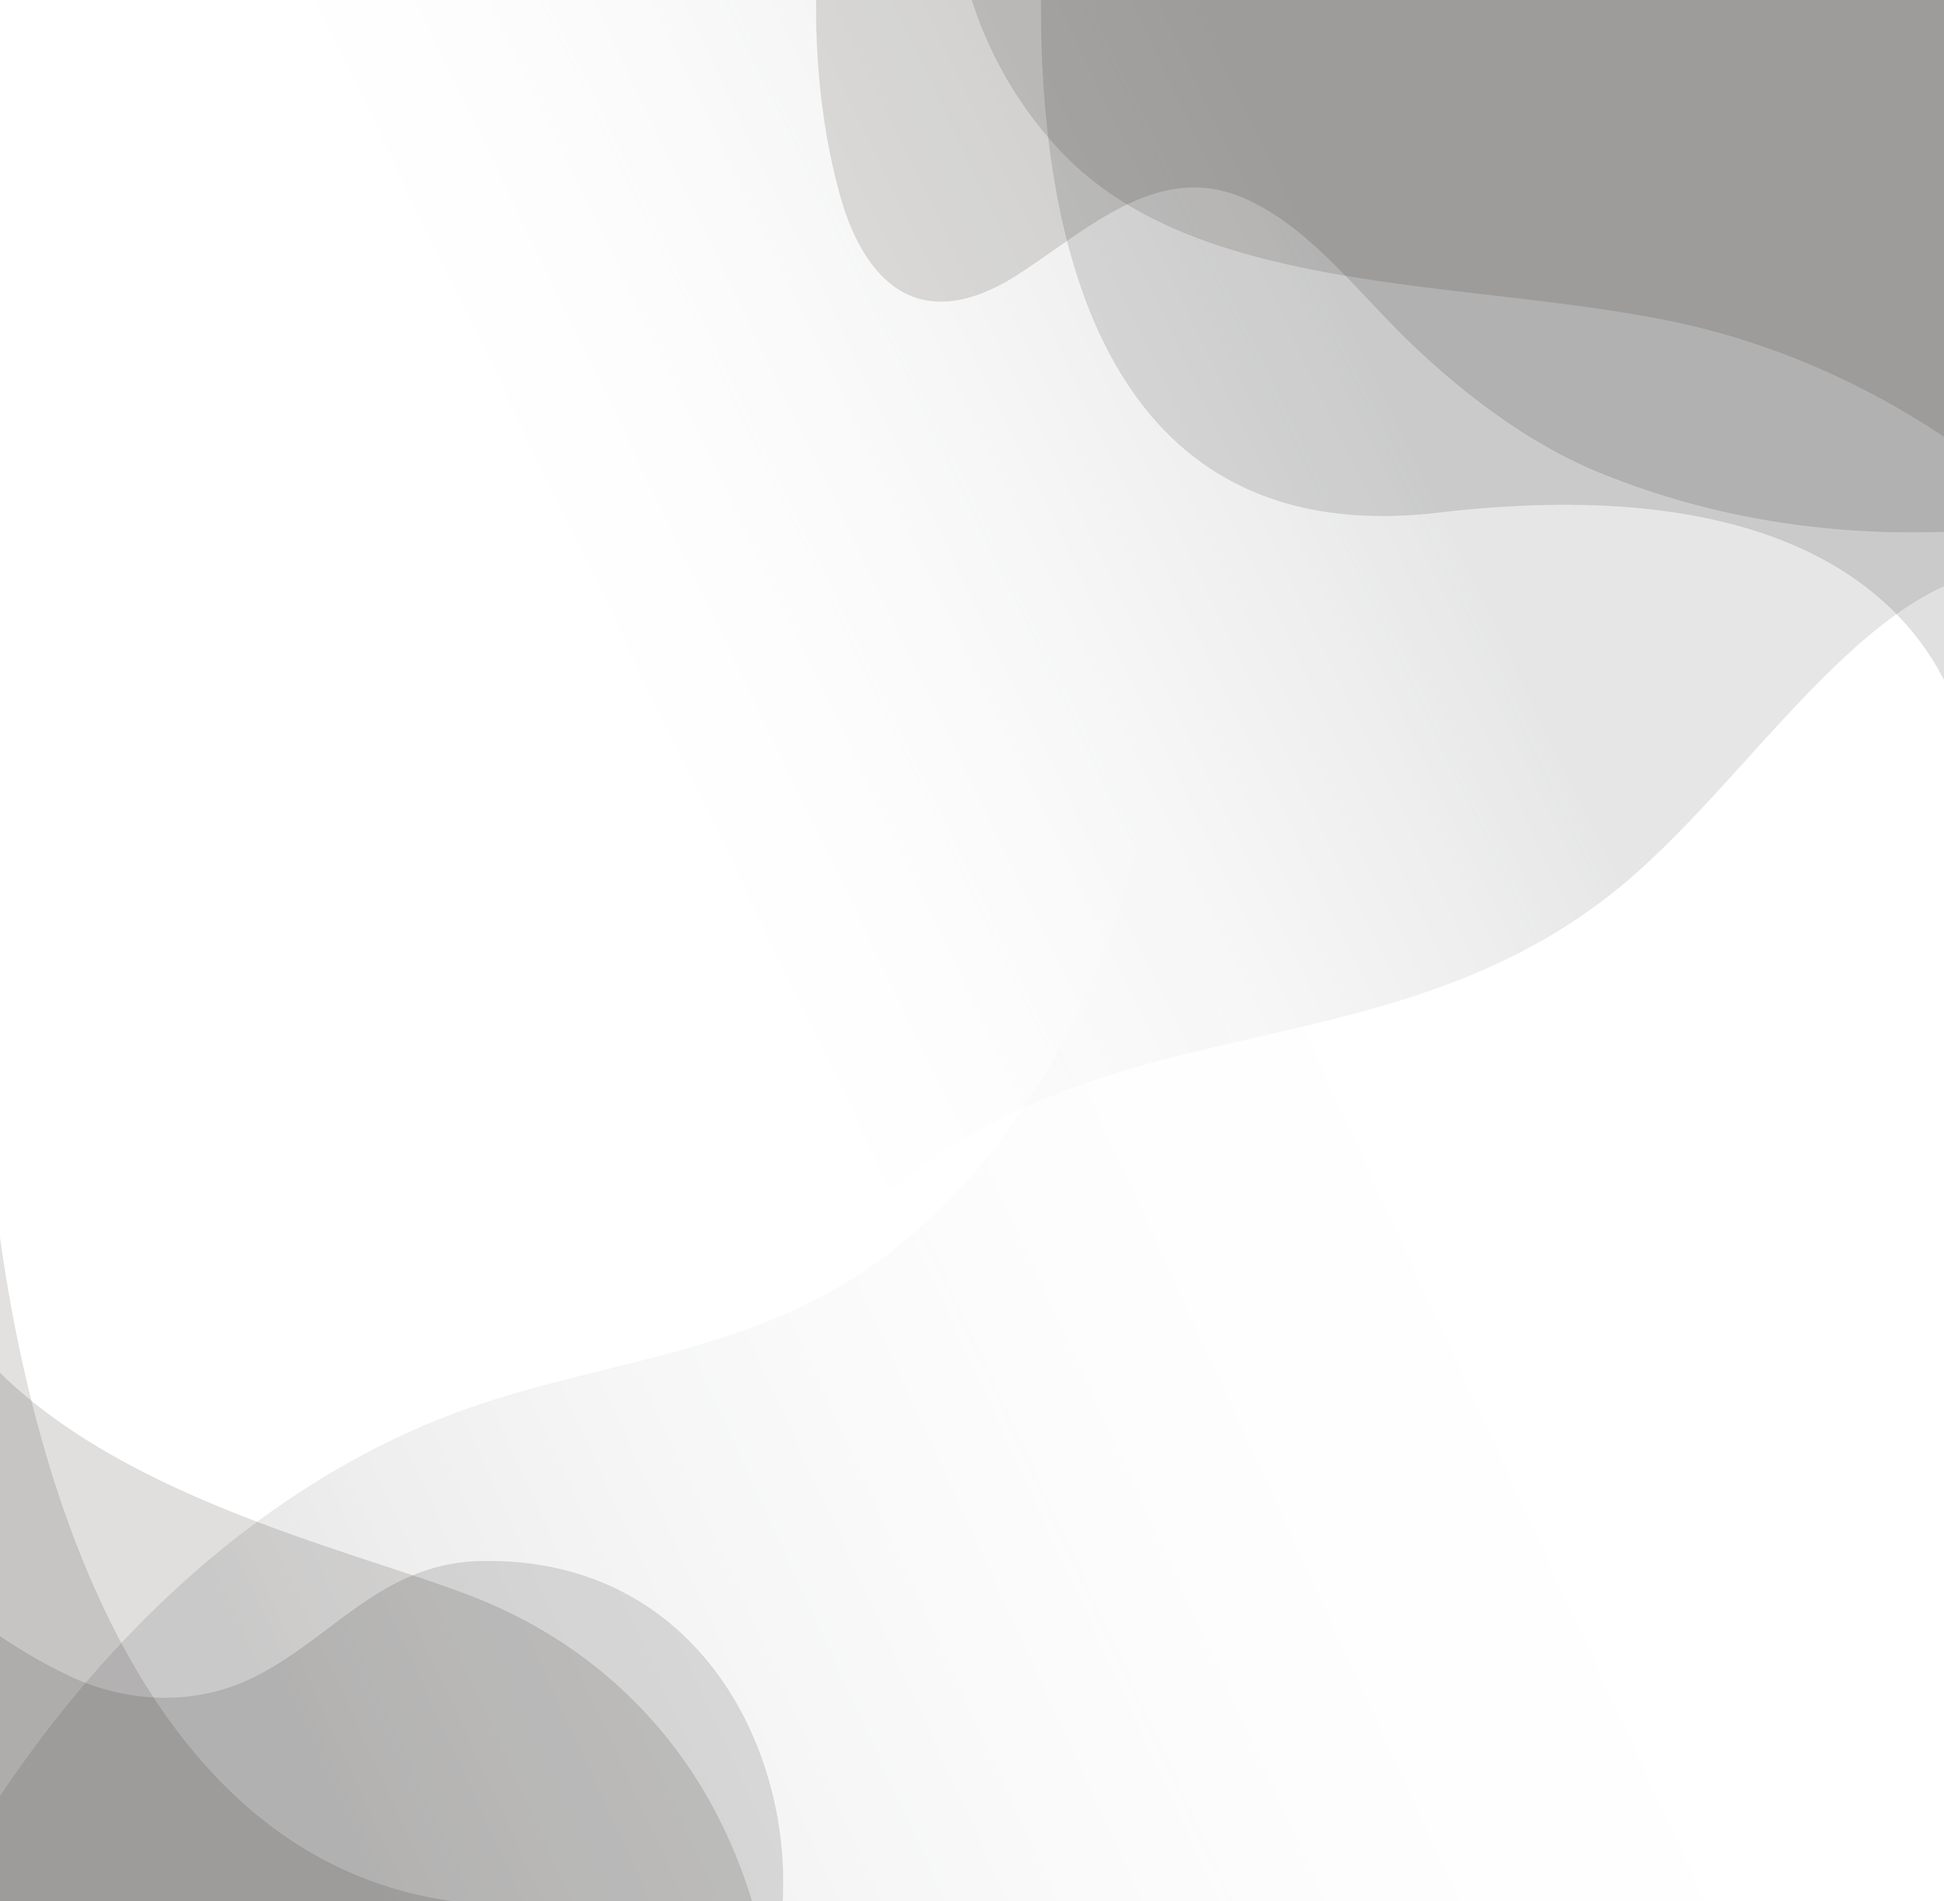
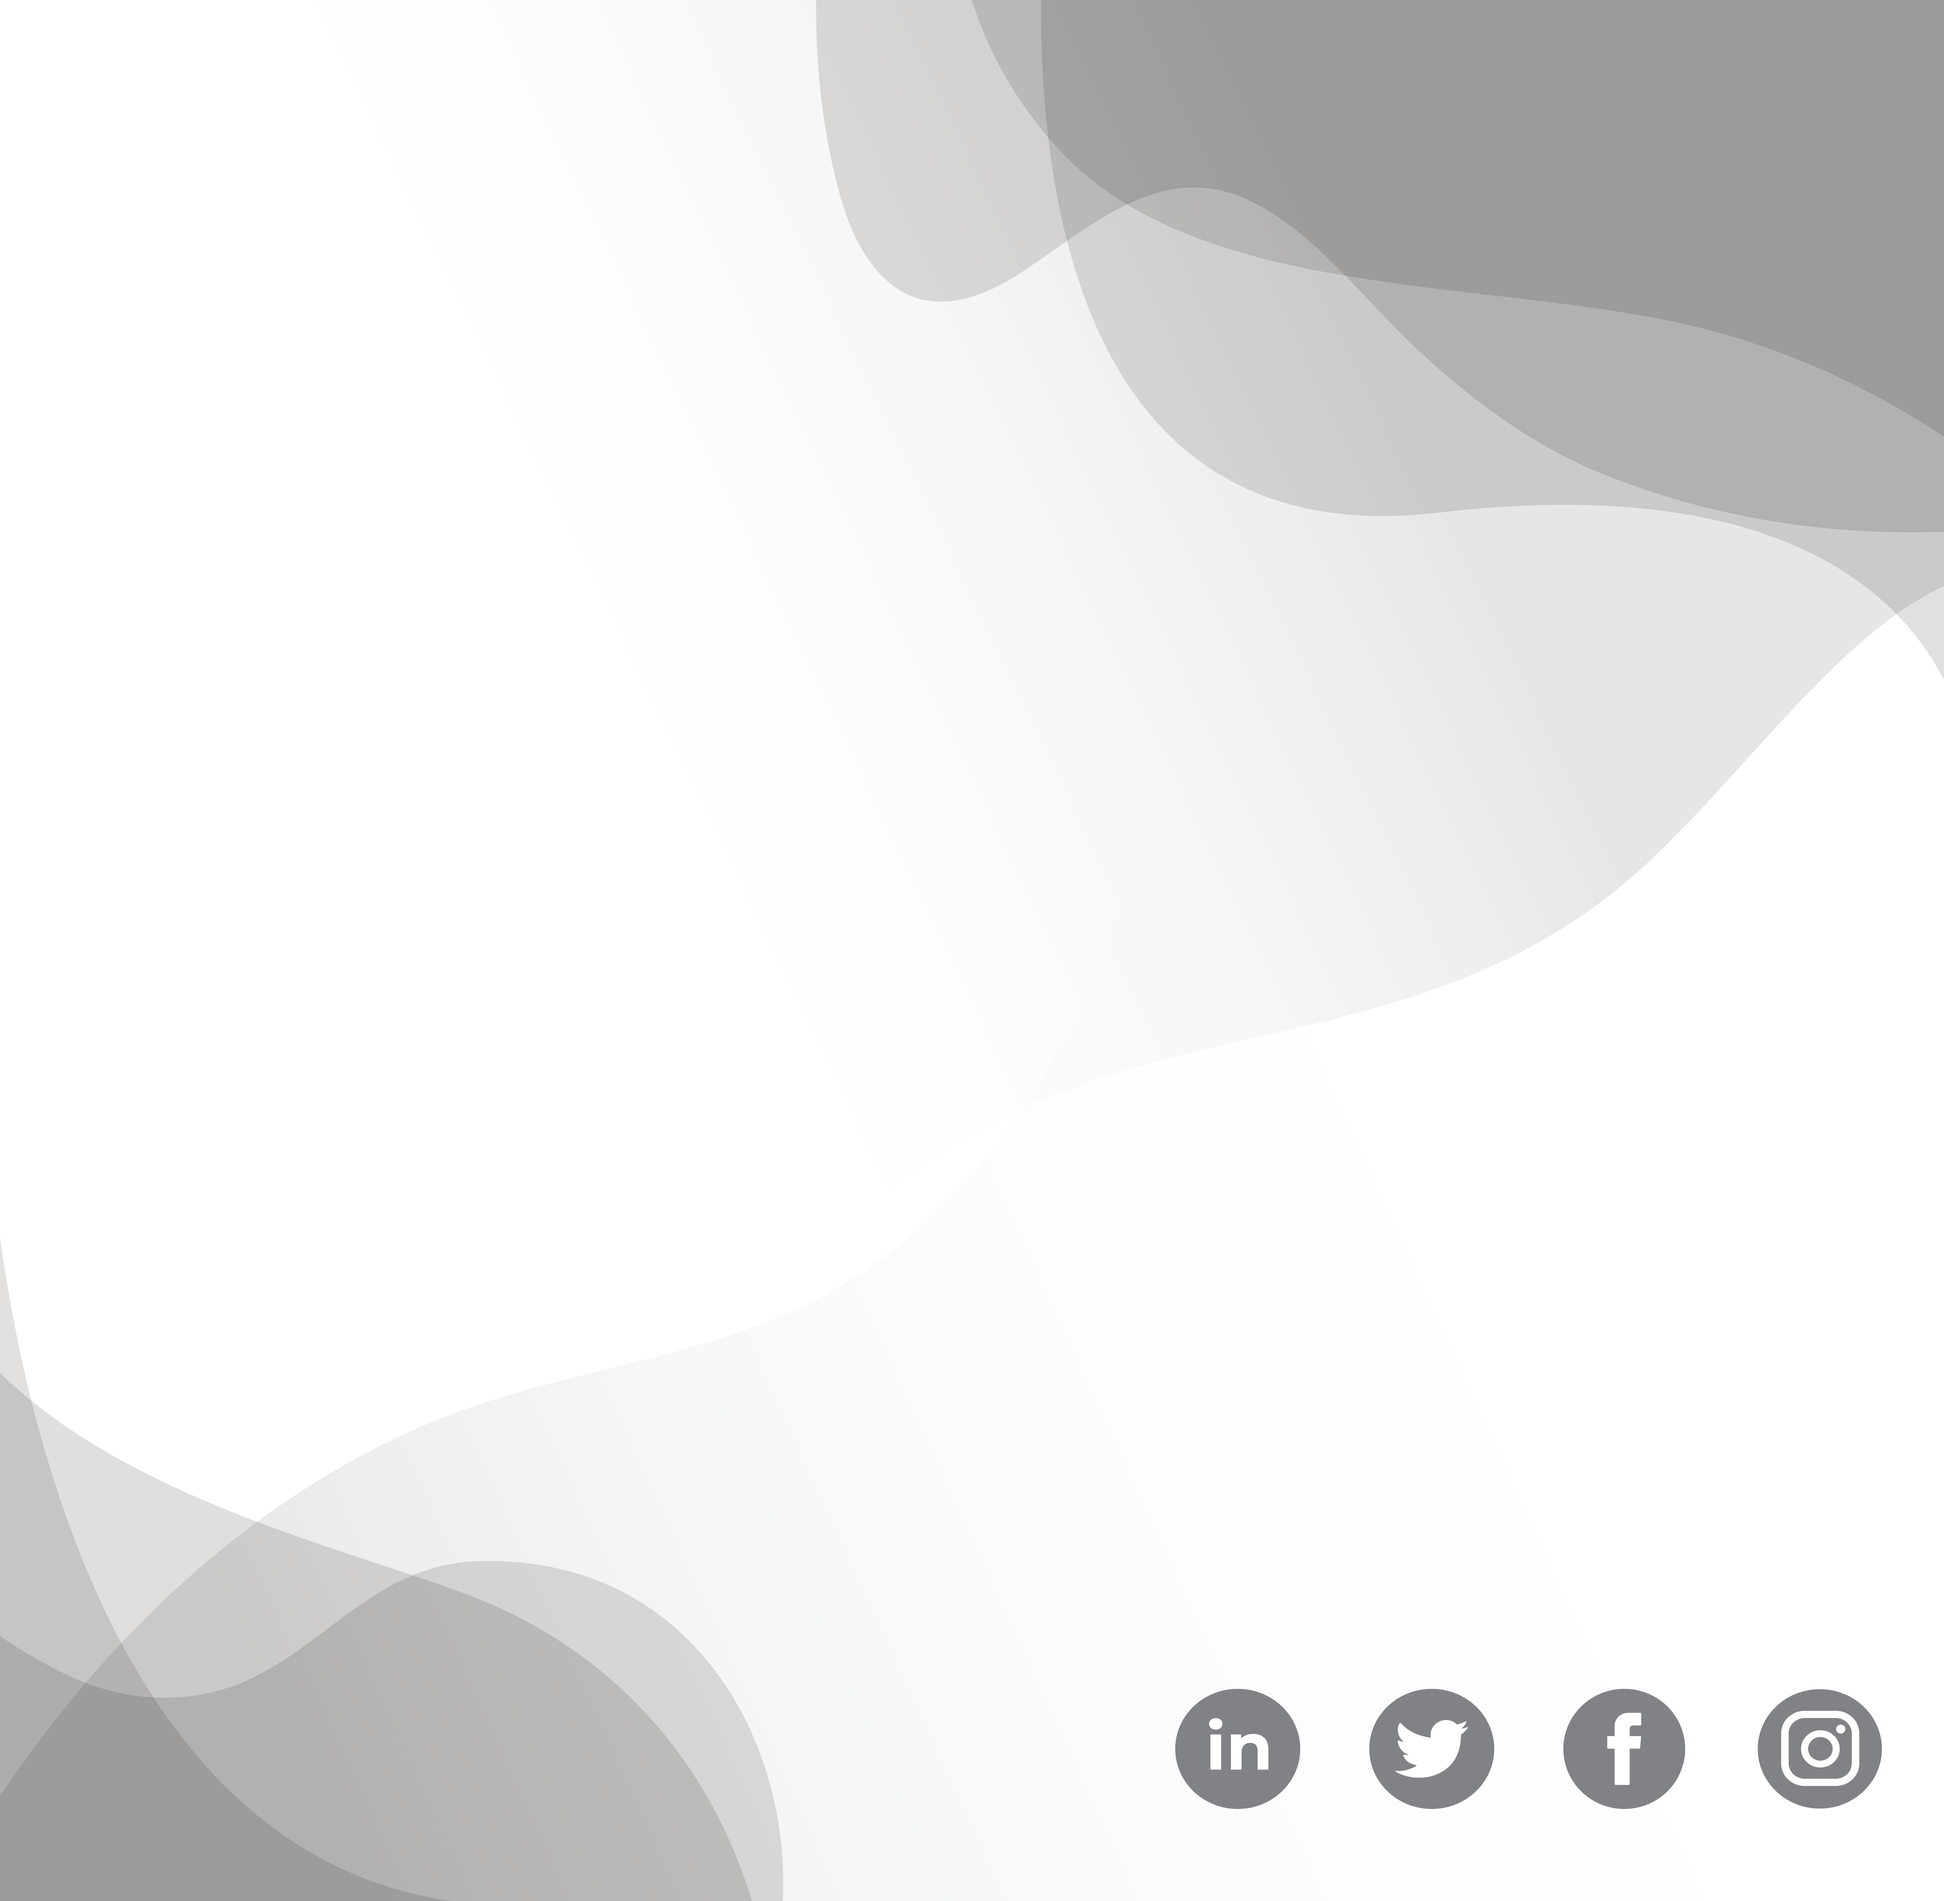
project init

Changed region(s): [[0.5938, 0.8696, 0.875, 0.9627], [0.9062, 0.8696, 0.9688, 0.9627]]

diff --git a/signature2.html b/signature2.html
@@ -21,23 +21,39 @@
 		padding: 0;
 	}
 	.email_templete {
-		background-image: url(bg_image_2.png);
-		background-position: center;
-		background-repeat: no-repeat;
-		background-size: cover;
 		width: 300px;
 		height: 300px;
-		position: relative;
+		display: table;
+		box-sizing: border-box;
 	}
-	.logo_image img {
-		max-width: 72px;
+	.email_templete > img {
+		width: 300px;
+		height: 300px;
+		display: table;
+		float: left;
+		box-sizing: border-box;
+	}
+	.email_templete .email_templete_content_sec {
+		margin-top: -300px;
+		float: left;
+		display: table;
+		box-sizing: border-box;
+		width: 300px;
+		height: 300px;
+	}
+	.logo_image {
+		width: 72px;
 		margin: 0px 8px;
+		box-sizing: border-box;
+		float: left;
 	}
 	.email_templete_content {
 		width: 100%;
 		max-width: 200px;
-		margin: 0 50px 0 auto;
+		margin: 0px 50px 0;
 		display: table;
+		box-sizing: border-box;
+		float: left;
 	}
 	.email_templete_content h1 {
 		color: #231F20;
@@ -46,9 +62,12 @@
 		letter-spacing: 1px;
 		margin: 0;
 	}
+	.email_templete_content .gradent_image {
+		width: 200px;
+		margin-top: 8px;
+	}
 	.email_templete_content p {
-		margin: 8px 0 0;
-		background-color: #EFD69E;
+		margin: -34px 0 0;
 		color: #231F20;
 		font-weight: 400;
 		font-size: 16px;
@@ -86,68 +105,33 @@
 		left: 0;
 		bottom: 0;
 		margin: auto;
+		box-sizing: border-box;
 	}
 	ul.email_templete_content_list li a span img {
 		max-width: 10px;
 		margin: auto;
 	}
-	ul.email_templete_icons {
-		display: table;
-		margin: 30px 6px 0 auto;
-	}
-	ul.email_templete_icons li {
-		margin: 0 5px;
-		display: inline-block;
-	}
-	ul.email_templete_icons li a {
-		background-color: #808285;
-		border-radius: 50%;
-		width: 26px;
-		height: 26px;
-		text-align: center;
-		line-height: 23px;
-		display: flex;
-		flex-wrap: wrap;
-		align-items: center;
-		justify-content: center;
-	}
-	ul.email_templete_icons li a img {
-		max-width: 12px;
-		max-height: 12px;
-	}
 </style>
 </head>
 <body>
 	<div class="email_templete">
-		<a href="#" class="logo_image">
-			<img src="logo_2.png">
-		</a>
-		<div class="email_templete_content">
-			<h1>ALEX PEDLEY</h1>
-			<p>DIRECTOR</p>
-			<ul class="email_templete_content_list">
-				<li>
-					<a href="tel:7834685780"><span><img src="call_icon.png"></span>+44 7834 685780</a>
-				</li>
-				<li>
-					<a href="www.platform-oms.co.uk."><span><img src="map_icon.png"></span>www.platform-oms.co.uk.</a>
-				</li>
-			</ul>
+		<img src="bg_image_2.png">
+		<div class="email_templete_content_sec">
+			<img src="logo_2.png" class="logo_image">
+			<div class="email_templete_content">
+				<h1>ALEX PEDLEY</h1>
+				<img src="gradent_image.png" class="gradent_image">
+				<p>DIRECTOR</p>
+				<ul class="email_templete_content_list">
+					<li>
+						<a href="tel:7834685780"><span><img src="call_icon.png"></span>+44 7834 685780</a>
+					</li>
+					<li>
+						<a href="www.platform-oms.co.uk."><span><img src="map_icon.png"></span>www.platform-oms.co.uk.</a>
+					</li>
+				</ul>
+			</div>
 		</div>
-		<ul class="email_templete_icons">
-			<li>
-				<a href="#"><img src="in_icon.png"></a>
-			</li>
-			<li>
-				<a href="#"><img src="twitter_icon.png"></a>
-			</li>
-			<li>
-				<a href="#"><img src="fb_icon.png"></a>
-			</li>
-			<li>
-				<a href="#"><img src="insta_icon.png"></a>
-			</li>
-		</ul>
 	</div>
 </body>
 </html>
